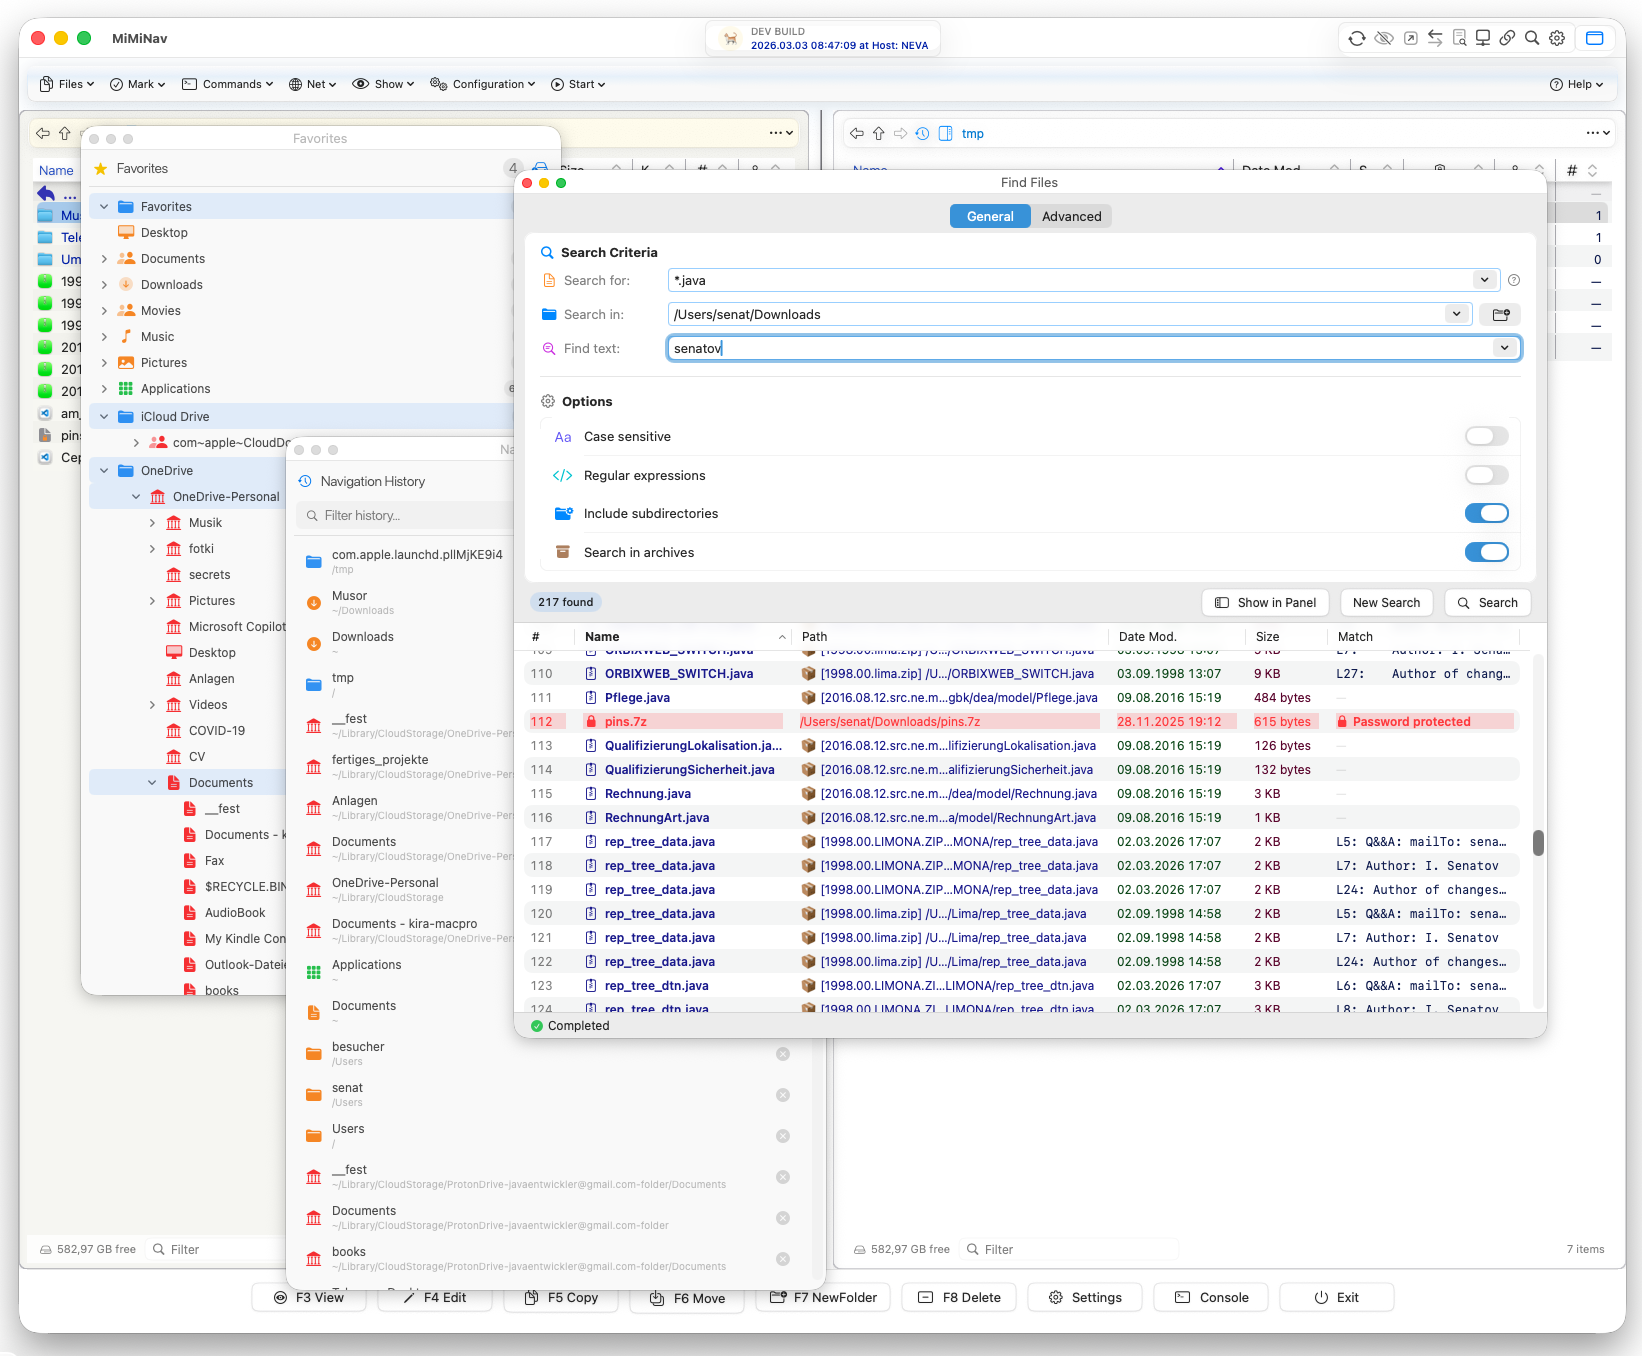
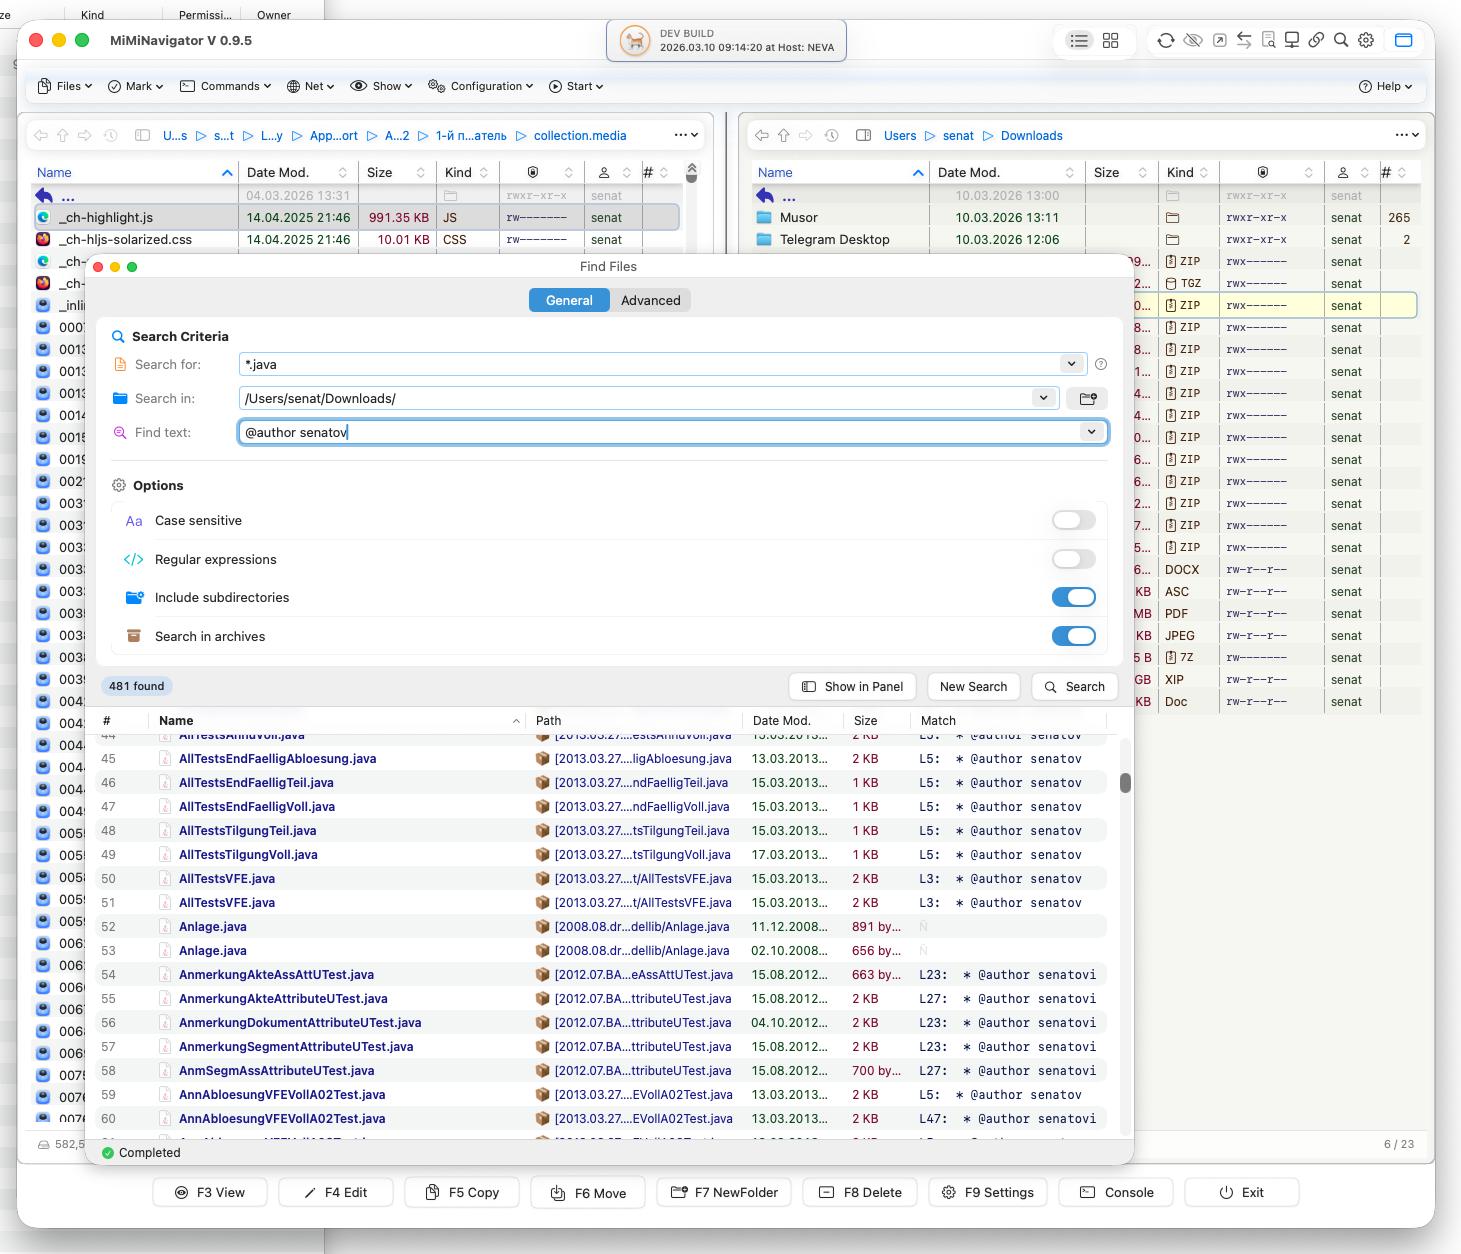
v0.9.6: breadcrumb hover, custom slider, 3D jump btns

Changed region(s): [[0.0, 0.0, 1.0, 0.9952], [0.7392, 0.0, 0.77, 0.0622]]

diff --git a/CHANGELOG.md b/CHANGELOG.md
@@ -5,6 +5,19 @@ All notable changes to MiMiNavigator will be documented in this file.
 The format is based on [Keep a Changelog](https://keepachangelog.com/en/1.0.0/),
 and this project adheres to [Semantic Versioning](https://semver.org/spec/v2.0.0.html).
 
+## [0.9.6] — 2026-03-10
+### Added
+- **Breadcrumb hover-expand (Finder-style)** — truncated segments spring-expand on hover
+- **Custom thumbnail slider** — macOS Sound-panel style, theme-tinted, 3D knob
+- **Scroll jump buttons (3D)** — square embossed buttons at scrollbar edges
+
+### Changed
+- **Slider performance** — local State during drag, commit on mouse-up only
+- **safeAreaInset** — 40pt to 4pt, scrollbar reaches bottom
+- **Slider clarity** — track opacity 0.55, knob 16pt, inner shadow
+
+---
+
 ## [Unreleased] — 2026-03-06
 
 ### Added

diff --git a/README.md b/README.md
@@ -14,7 +14,7 @@
   <img src="https://img.shields.io/badge/SwiftUI-blue?logo=swift&logoColor=white" alt="SwiftUI" />
   <img src="https://img.shields.io/badge/Concurrency-Strict-2ea44f" alt="Strict Concurrency" />
   <img src="https://img.shields.io/badge/License-AGPL--3.0-blue" alt="AGPL-3.0" />
-  <img src="https://img.shields.io/badge/v0.9.5-Active_Development-orange" alt="Active Development" />
+  <img src="https://img.shields.io/badge/v0.9.6-Active_Development-orange" alt="Active Development" />
 </p>
 
 <p align="center">
